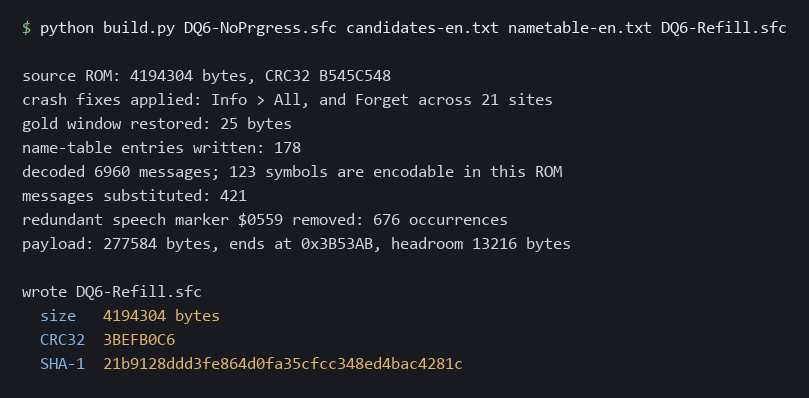
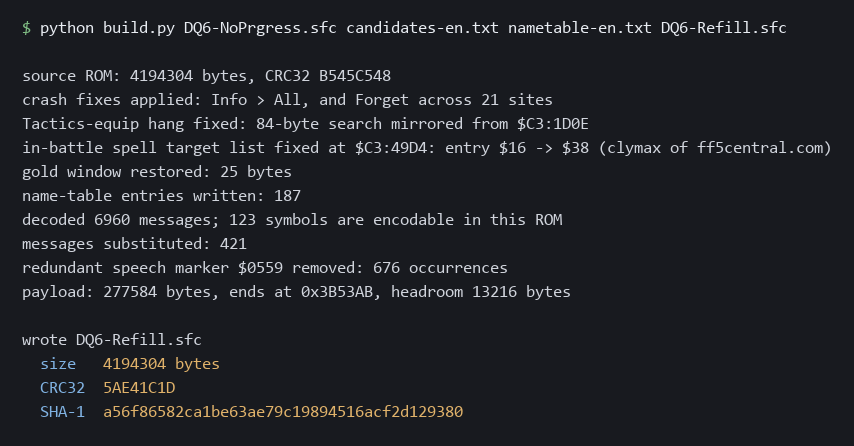
screenshots: recapture all three at the v3.0 build
The three README screenshots were captured at v1.3 and had gone stale in
every figure that matters: CRC32 3BEFB0C6 instead of 5AE41C1D, 178
name-table entries instead of 187, a 216,342-byte patch instead of
216,443, and no mention of the Tactics-equip hang or the spell target
list, neither of which existed yet.

Recaptured from clean runs, each in its own empty directory holding only
what the shot shows: build.py against stock B545C548, Flips applying the
shipped .bps followed by certutil, and patchRM.py in a Windows prompt.
Every figure on screen is the real output of that run, and all three now
agree with the repository and with each other.

The build-run alt text gains the two fixes and the marker drop. The other
two were already version-neutral and are unchanged.

diff --git a/README.md b/README.md
@@ -303,7 +303,7 @@ fetched from anywhere else.
 python build.py DQ6-NoPrgress.sfc candidates-en.txt nametable-en.txt DQ6-Refill.sfc
 ```
 
-![The build script running: it reports the source ROM as CRC32 B545C548, applies both crash fixes across 21 sites, restores the gold window, writes the name-table entries, decodes 6,960 messages, substitutes 421, and reports the finished ROM's CRC32 and SHA-1](screenshots/build-run.png)
+![The build script running: it reports the source ROM as CRC32 B545C548, applies both crash fixes across 21 sites, fixes the Tactics-equip hang and the in-battle spell target list, restores the gold window, writes the name-table entries, decodes 6,960 messages, substitutes 421, drops the redundant speech marker, and reports the finished ROM's CRC32 and SHA-1](screenshots/build-run.png)
 
 If your output is not `5AE41C1D`, the input ROM is not the one this targets.
 Check its CRC32 before anything else.
